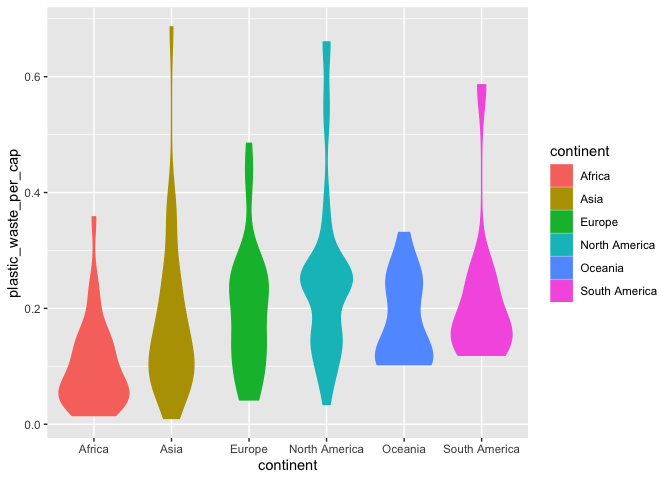
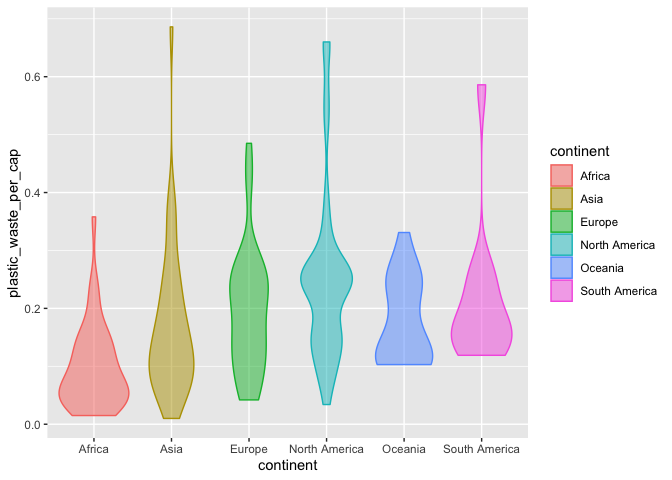
Finished through Ex. 4.2

diff --git a/lab-02.md b/lab-02.md
@@ -113,7 +113,7 @@ ggplot(data = plastic_waste_filtered,
                      y = plastic_waste_per_cap,
                      color = continent,
                      fill = continent)) + 
-  geom_violin()
+  geom_violin(alpha = 0.5)
 ```
 
     ## Warning: Removed 51 rows containing non-finite values (`stat_ydensity()`).
@@ -121,23 +121,60 @@ ggplot(data = plastic_waste_filtered,
 ![](lab-02_files/figure-gfm/plastic-waste-violin-1.png)<!-- --> \###
 Exercise 4
 
-Remove this text, and add your answer for Exercise 4 here.
+#### 4.1
 
-### Exercise 5
-
-Remove this text, and add your answer for Exercise 5 here.
-
-``` r
-# insert code here
-```
-
-### Exercise 6
-
-Remove this text, and add your answer for Exercise 6 here.
+Let’s now try plotting the data as a scatterplot. Initially when we do
+this, the plot looks like this.
 
 ``` r
-# insert code here
+ggplot(data = plastic_waste_filtered,
+       mapping = aes(x = plastic_waste_per_cap,
+                     y = mismanaged_plastic_waste_per_cap)) + 
+  geom_point()
 ```
+
+    ## Warning: Removed 51 rows containing missing values (`geom_point()`).
+
+![](lab-02_files/figure-gfm/plastic_waste_scatterplot-1.png)<!-- -->
+
+This looks like a pretty strong positive correlation, and we can confirm
+this directly:
+
+``` r
+cor(plastic_waste_filtered$plastic_waste_per_cap, plastic_waste_filtered$mismanaged_plastic_waste_per_cap, 
+    use = "complete.obs")
+```
+
+    ## [1] 0.0822064
+
+So the relationship isn’t terrible strong, but it is positive. As you
+increase the amount of plastic waste per person, you also increase the
+amount of that plastic waste that’s mismanaged.
+
+#### 4.2
+
+We might gain some additional insights if we color the data points by
+continent:
+
+``` r
+ggplot(data = plastic_waste_filtered,
+       mapping = aes(x = plastic_waste_per_cap,
+                     y = mismanaged_plastic_waste_per_cap,
+                     color = continent)) + 
+  geom_point()
+```
+
+    ## Warning: Removed 51 rows containing missing values (`geom_point()`).
+
+![](lab-02_files/figure-gfm/plastic-waste-mismanaged-continent-1.png)<!-- -->
+
+From this we can see that continents appear to differ in how bad they
+are about mismanagement. African countries, for example, seem to be
+pretty bad about it; for every unit of plastic waste generated, a lot of
+it seems to get mismanaged. In contrast, Europe seems to be pretty good
+about mismanagement. This doesn’t mean European countries aren’t
+generating plastic waste, but not much of it is mismanaged once it is
+produced
 
 ### Exercise 7
 
